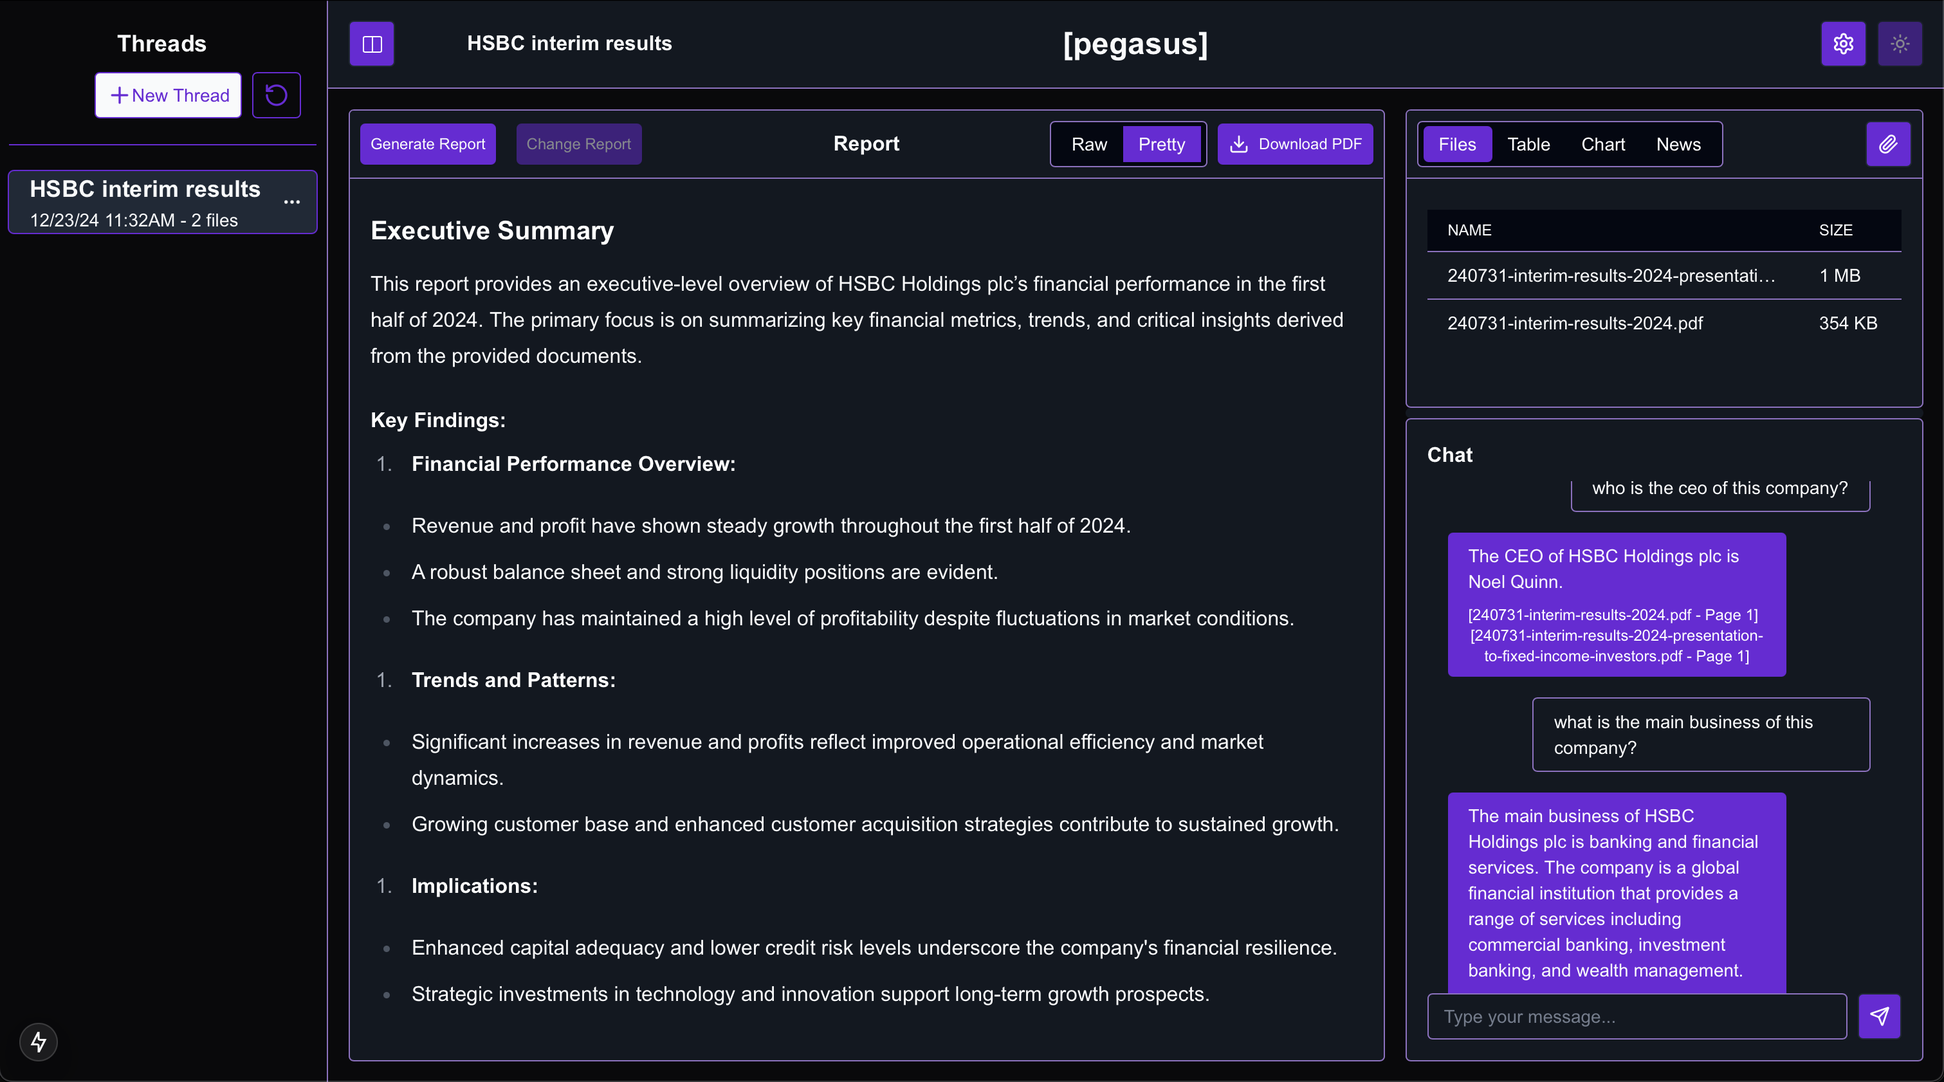
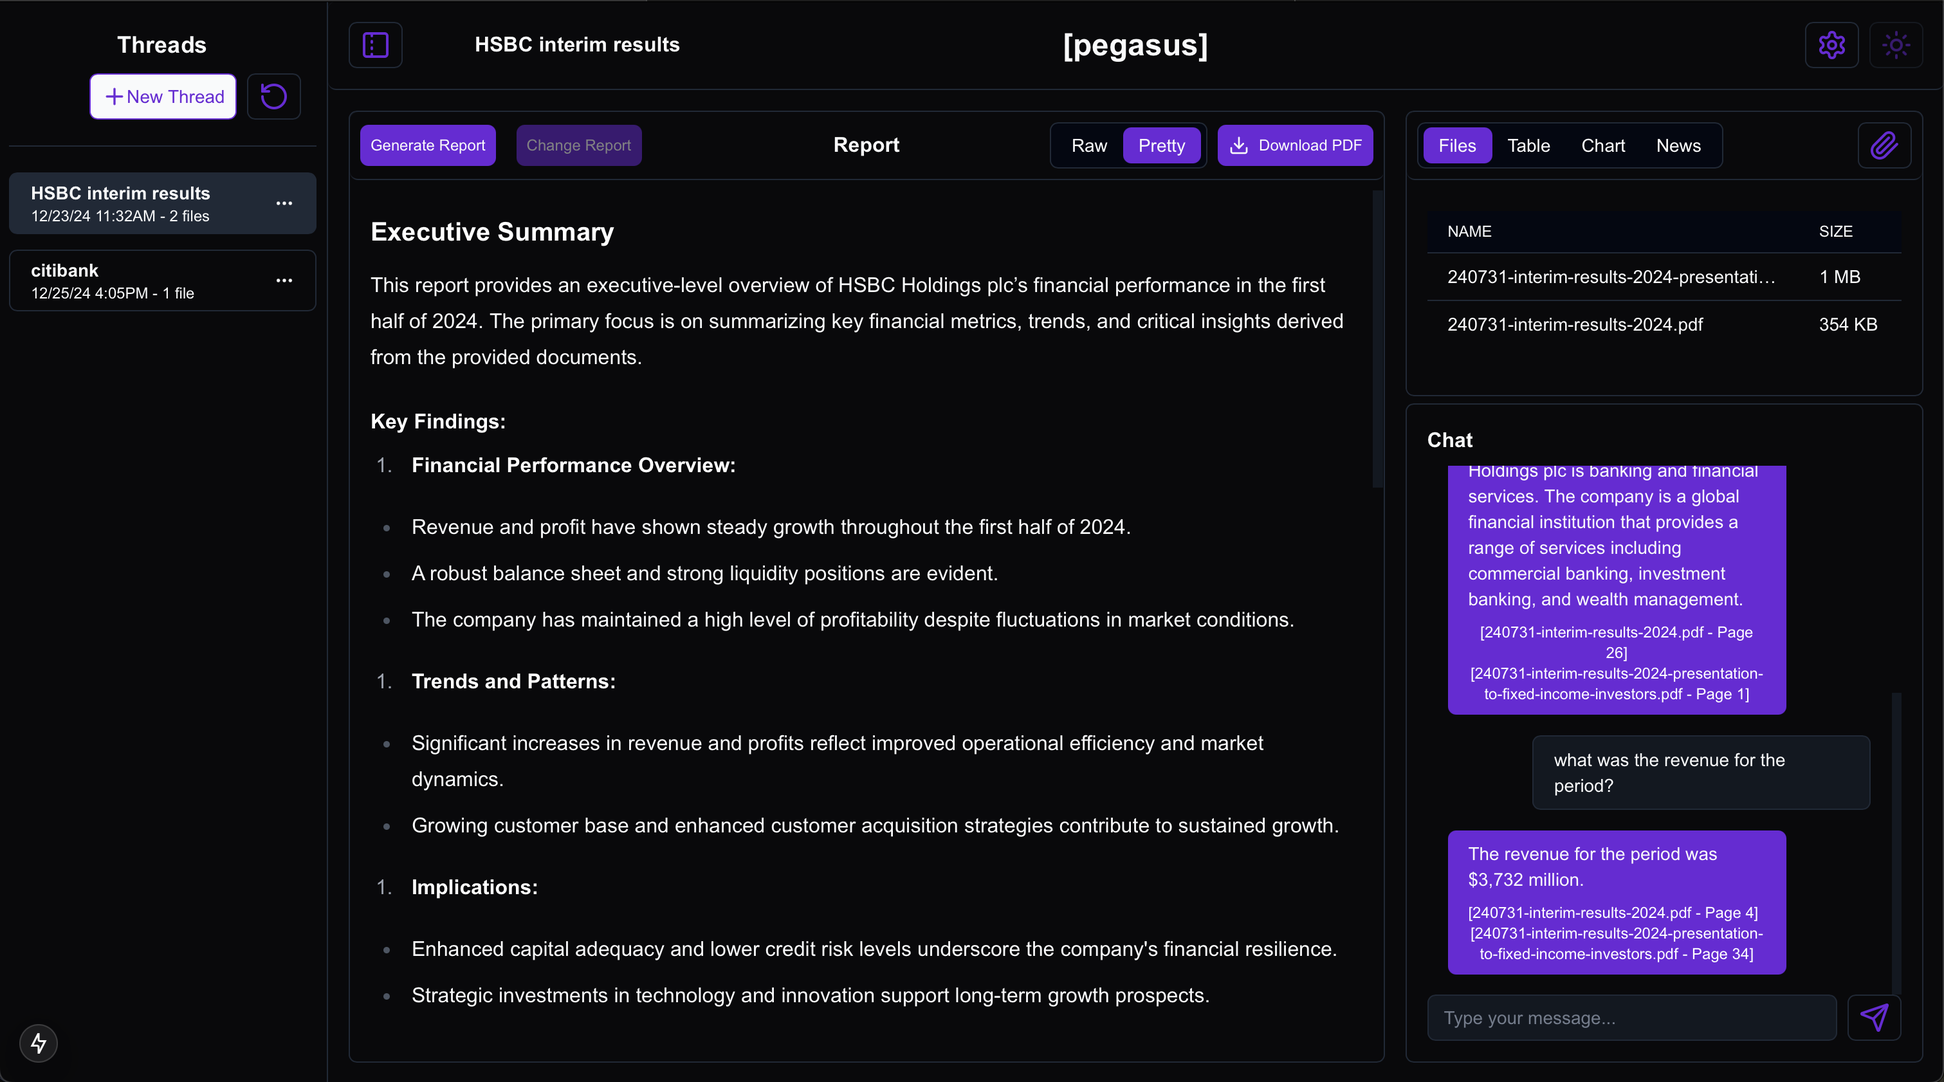
refactor; updated ui

diff --git a/src/components/pegasus-app.tsx b/src/components/pegasus-app.tsx
@@ -1,7 +1,7 @@
 // src/components/PegasusApp.jsx
 
 'use client';
-
+import { Resizable } from "re-resizable";
 import { useState, useRef, useEffect, useCallback } from 'react';
 import { 
   Settings, 
@@ -44,12 +44,12 @@ import { Switch } from "@/components/ui/switch";
 import { Progress } from "@/components/ui/progress";
 import { Tabs, TabsContent, TabsList, TabsTrigger } from "@/components/ui/tabs";
 import { useDropzone } from 'react-dropzone';
-import { Artifact } from "@/components/ui/artifact";
+import { Artifact } from "@/components/artifact";
 import Image from 'next/image';
 import { DocumentGrid } from '@/components/document-grid';
 import { DropdownMenu, DropdownMenuContent, DropdownMenuTrigger, DropdownMenuCheckboxItem } from '@/components/ui/dropdown-menu';
 import { SidebarProvider, SidebarInset, SidebarTrigger } from "@/components/ui/sidebar";
-import { AppSidebar } from "@/components/ui/appSidebar";
+import { AppSidebar } from "@/components/appSidebar";
 
 
 const API_BASE_URL = 'http://localhost:5050';
@@ -129,7 +129,6 @@ export function PegasusApp() {
   const chatContainerRef = useRef<HTMLDivElement>(null);
   const fileInputRef = useRef<HTMLInputElement>(null);
   const chatResizeBarRef = useRef<HTMLDivElement>(null);
-  const [chatHeight, setChatHeight] = useState(500);
 
   // State variables for editing thread title
   const [editDialogOpen, setEditDialogOpen] = useState<boolean>(false);
@@ -315,7 +314,7 @@ export function PegasusApp() {
           message.role === 'system' 
             ? 'bg-red-500 text-[hsl(var(--foreground))]' 
             : message.role === 'user' 
-              ? 'bg-[hsl(var(--muted))] text-[hsl(var(--foreground))] border border-[hsl(var(--ring))]' 
+              ? 'bg-[hsl(var(--muted))] text-[hsl(var(--foreground))] border border-[hsl(var(--border))]' 
               : 'bg-[hsl(var(--primary))] text-[hsl(var(--foreground))]'
         } rounded px-4 py-2`}>
           <p className="text-sm">{message.content}</p>
@@ -337,26 +336,6 @@ export function PegasusApp() {
     );
   };
 
-  const handleChatMouseDown = (e: React.MouseEvent) => {
-    e.preventDefault();
-    document.addEventListener('mousemove', handleChatMouseMove);
-    document.addEventListener('mouseup', handleChatMouseUp);
-  };
-
-  const handleChatMouseMove = (e: MouseEvent) => {
-    if (chatResizeBarRef.current) {
-      const containerRect = chatResizeBarRef.current.parentElement?.getBoundingClientRect();
-      if (containerRect) {
-        const newHeight = containerRect.bottom - e.clientY;
-        setChatHeight(newHeight);
-      }
-    }
-  };
-
-  const handleChatMouseUp = () => {
-    document.removeEventListener('mousemove', handleChatMouseMove);
-    document.removeEventListener('mouseup', handleChatMouseUp);
-  };
 
   async function loadHistoryAndUpdate() { 
     try {
@@ -1024,13 +1003,13 @@ export function PegasusApp() {
             {/* Main content */}
             <div className="flex-1 flex flex-col">
               {/* Header */}
-              <header className="bg-[hsl(var(--muted))] border-b border-[hsl(var(--ring))] p-4 flex justify-between items-center">
+              <header className="bg-[hsl(var(--background))] border-b border-[hsl(var(--border))] rounded p-4 flex justify-between items-center">
                 <div className="flex items-center">
                   {/* Sidebar toggle button can be uncommented if needed */}
                   <SidebarTrigger 
                     variant="outline"
                     size="icon" 
-                    className="bg-[hsl(var(--primary))] hover:bg-[hsl(var(--primary-hover))] text-[hsl(var(--primary-foreground))] h-9 w-9 rounded" />
+                    className="w-auto bg-[hsl(var(--background))] hover:bg-[hsl(var(--muted))] border border-[hsl(var(--border))] text-[hsl(var(--primary))] p-2 rounded" />
                   {/* <Button 
                     variant="outline" 
                     size="icon" 
@@ -1053,11 +1032,11 @@ export function PegasusApp() {
                 </div>
                 <div className="w-10"></div> {/* Spacer */}
                 <div className="flex items-center space-x-2">
-                  <Button variant="outline" size="icon" className="bg-[hsl(var(--primary))] hover:bg-[hsl(var(--primary-hover))] text-[hsl(var(--primary-foreground))] p-2 rounded" onClick={() => setIsSettingsOpen(true)}>
+                  <Button variant="outline" size="icon" className="w-auto bg-[hsl(var(--background))] hover:bg-[hsl(var(--muted))] border border-[hsl(var(--border))] text-[hsl(var(--primary))] p-2 rounded" onClick={() => setIsSettingsOpen(true)}>
                     <Settings />
                   </Button>
-                  <Button variant="outline" size="icon" className="bg-[hsl(var(--primary))] hover:bg-[hsl(var(--primary-hover))] text-[hsl(var(--primary-foreground))] p-2 rounded" onClick={handleToggle} disabled>
-                    {isDarkMode ? <Sun className="h-4 w-4" /> : <Moon className="h-4 w-4" />}
+                  <Button variant="outline" size="icon" className="w-auto bg-[hsl(var(--background))] hover:bg-[hsl(var(--muted))] border border-[hsl(var(--border))] text-[hsl(var(--primary))] p-2 rounded" onClick={handleToggle} disabled>
+                    {isDarkMode ? <Sun /> : <Moon />}
                   </Button>
                 </div>
               </header>
@@ -1085,14 +1064,32 @@ export function PegasusApp() {
                   )}
                 </div>
 
-                {/* Right sidebar */}
+                {/* Right side */}
+
                 <div className="w-1/3 h-full flex flex-col">
+                  <Resizable
+                    defaultSize={{ width: "100%", height: "30%" }}
+
+                  enable={{
+                    right: false,
+                    top: false,
+                    bottom: true,
+                    left: false,
+                    topRight: false,
+                    bottomRight: false,
+                    bottomLeft: false,
+                    topLeft: false,
+                  }}
+                  className="overflow-hidden rounded"
+                  style={{ display: "flex", flexDirection: "row", }}
+
+                  >
                   {/* Tabs section */}
-                  <div style={{ height: `calc(100% - ${chatHeight}px - 8px)` }} className="bg-[hsl(var(--muted))] border border-[hsl(var(--ring))] rounded overflow-hidden">
+                  <div className="bg-[hsl(var(--background))] border border-[hsl(var(--border))] rounded overflow-hidden w-full">
                     {activeThread ? (
                       <Tabs defaultValue="files" className="h-full flex flex-col">
-                        <div className="bg-[hsl(var(--muted))] border-b border-[hsl(var(--ring))] p-2 flex justify-between items-center">
-                          <TabsList className="bg-[hsl(var(--popover))]  border border-[hsl(var(--ring))] rounded">
+                        <div className="bg-[hsl(var(--background))] border-b border-[hsl(var(--border))] p-2 flex justify-between items-center rounded">
+                          <TabsList className="bg-[hsl(var(--popover))]  border border-[hsl(var(--border))] rounded">
                             <TabsTrigger 
                               value="files" 
                               className="data-[state=active]:bg-[hsl(var(--primary))] hover:bg-[hsl(var(--primary-hover))] text-[hsl(var(--primary-foreground))] rounded"
@@ -1129,9 +1126,9 @@ export function PegasusApp() {
                               fileInputRef.current?.click();
                               //addNotification('Select a file to upload', 'info');
                             }}
-                            className="bg-[hsl(var(--primary))] hover:bg-[hsl(var(--primary-hover))] text-[hsl(var(--primary-foreground))] p-2 rounded"
+                            className="w-auto bg-[hsl(var(--background))] hover:bg-[hsl(var(--muted))] border border-[hsl(var(--border))] text-[hsl(var(--primary))] p-2 rounded"
                           >
-                            <Paperclip className="h-4 w-4" />
+                            <Paperclip />
                           </Button>
                           <input
                             type="file"
@@ -1169,17 +1166,11 @@ export function PegasusApp() {
                       </div>
                     )}
                   </div>
-
-                  {/* Chat resize bar */}
-                  <div
-                    ref={chatResizeBarRef}
-                    className="h-2 bg-[hsl(var(--muted))] rounded  transition-colors duration-200"
-                    onMouseDown={handleChatMouseDown}
-                    //onClick={() => addNotification('Adjusting chat size', 'info')}
-                  ></div>
-
+                  
+                  </Resizable>
                   {/* Chat */}
-                  <div style={{ height: `${chatHeight}px` }} className="bg-[hsl(var(--muted))] border border-[hsl(var(--ring))] rounded p-4 flex flex-col overflow-hidden">
+                  <div className="h-2"></div>
+                  <div className="h-full bg-[hsl(var(--background))] border border-[hsl(var(--border))] rounded p-4 flex flex-col overflow-hidden">
                     {activeThread ? (
                       <>
                         <div className="flex justify-between items-center mb-2">
@@ -1202,10 +1193,10 @@ export function PegasusApp() {
                                 handleSendMessage(inputMessage);
                               }
                             }}
-                            className="bg-[hsl(var(--muted))] text-[hsl(var(--foreground))] placeholder-[hsl(var(--muted-foreground))] border border-[hsl(var(--ring))] rounded"
+                            className="bg-[hsl(var(--muted))] text-[hsl(var(--foreground))] placeholder-[hsl(var(--muted-foreground))] border border-[hsl(var(--border))] rounded"
                           />
-                          <Button size="icon" variant="outline" onClick={() => handleSendMessage(inputMessage)} className="bg-[hsl(var(--primary))] hover:bg-[hsl(var(--primary-hover))] text-[hsl(var(--primary-foreground))] p-2 rounded">
-                            <Send className="h-4 w-4" />
+                          <Button size="icon" variant="outline" onClick={() => handleSendMessage(inputMessage)} className="w-auto bg-[hsl(var(--background))] hover:bg-[hsl(var(--muted))] border border-[hsl(var(--border))] text-[hsl(var(--primary))] p-2 rounded">
+                            <Send/>
                           </Button>
                         </div>
                       </>
@@ -1220,10 +1211,15 @@ export function PegasusApp() {
                     )}
                   </div>
                 </div>
+                
               </div>
+              
             </div>
+            
           </div>
+          
         </SidebarInset>
+        
       </SidebarProvider>
   );
 }

diff --git a/src/components/appSidebar.tsx b/src/components/appSidebar.tsx
@@ -51,7 +51,7 @@ export function AppSidebar({
   };
 
   return (
-    <Sidebar className="h-screen bg-[var(--background)] border-r border-[hsl(var(--ring))] text-[var(--text)] flex flex-col">
+    <Sidebar className="h-screen bg-[var(--background)] border-r border-[hsl(var(--border))] text-[hsl(var(--foreground))] flex flex-col">
       {/* Sidebar Header */}
       <SidebarHeader className="p-5 bg-[var(--background)]">
         <h2 className="text-lg font-bold flex justify-center">Threads</h2>
@@ -71,14 +71,14 @@ export function AppSidebar({
             variant="outline"
             size="icon"
             title="Refresh Threads"
-            className="w-auto bg-[hsl(var(--sidebar-background))] hover:bg-[hsl(var(--sidebar-ring))] text-[hsl(var(--sidebar-primary))] border border-[hsl(var(--sidebar-border))] p-2 rounded"
+            className="w-auto bg-[hsl(var(--background))] hover:bg-[hsl(var(--muted))] border border-[hsl(var(--border))] text-[hsl(var(--primary))] p-2 rounded"
             aria-label="Refresh Threads"
           >
-            <RotateCcw className="h-5 w-5" />
+            <RotateCcw />
           </Button>
         </div>
       </SidebarHeader>
-      <SidebarSeparator />
+      <SidebarSeparator  className="border-b border-[hsl(var(--border))] rounded"/>
       {/* Sidebar Content */}
       <SidebarContent className="flex-1 overflow-y-auto bg-[hsl(var(--background))] [&::-webkit-scrollbar]:w-2 [&::-webkit-scrollbar-track]:bg-transparent [&::-webkit-scrollbar-thumb]:bg-[hsl(var(--muted))] [&:hover]:scrollbar-thumb-[hsl(var(--muted-foreground))]">
         <SidebarMenu className="mt-4 px-2">
@@ -89,8 +89,8 @@ export function AppSidebar({
                 asChild
                 isActive={activeThread === session.id}
                 onClick={() => setActiveThread(session.id)}
-                className="bg-[hsl(var(--sidebar-background))] hover:bg-[hsl(var(--primary-hover))] text-[hsl(var(--foreground))] p-1 my-1 rounded"
-                variant="outline"
+                className="bg-[hsl(var(--sidebar-background))] hover:bg-[hsl(var(--primary-hover))] text-[hsl(var(--foreground))] border border-[hsl(var(--border))] p-1 my-1 rounded"
+                variant="default"
                 size="lg"
               >
                 <div className="flex items-center justify-between p-4 cursor-pointer">
@@ -99,8 +99,8 @@ export function AppSidebar({
                     <span   
                     className="
                       font-semibold 
-                      text-lg 
-                      text-[var(--text)] 
+                      text-sm
+                      text-[hsl(var(--foreground))] 
                       max-w-full 
                       whitespace-nowrap 
                       overflow-hidden 
@@ -110,7 +110,7 @@ export function AppSidebar({
                       title={session.title || "Untitled"}>
                     {session.title || "Untitled"}
                     </span>
-                    <div className="text-sm text-[var(--text)] ">
+                    <div className="text-xs text-[hsl(var(--foreground))] ">
                       {format(new Date(session.created_at), "M/d/yy h:mma")} -{" "}
                       {session.files.length} {session.files.length === 1 ? "file" : "files"}
                     </div>
@@ -121,15 +121,15 @@ export function AppSidebar({
                     <DropdownMenu>
                       <DropdownMenuTrigger asChild>
                         <button className="ml-2 hover:bg-[var(--background)] rounded" aria-label="Actions">
-                          <MoreHorizontal className="h-4 w-4 text-[var(--text)]" />
+                          <MoreHorizontal className="h-4 w-4 text-[hsl(var(--foreground))]" />
                         </button>
                       </DropdownMenuTrigger>
-                      <DropdownMenuContent className="w-[--radix-popper-anchor-width] bg-[hsl(var(--muted))] border border-[hsl(var(--ring))]">
+                      <DropdownMenuContent className="w-[--radix-popper-anchor-width] bg-[hsl(var(--muted))] border border-[hsl(var(--border))]">
                         <DropdownMenuItem
                           onSelect={() => onEditThread(session.id, session.title || "Untitled")} 
                           className="flex items-center cursor-pointer"
                         >
-                          <Edit className="mr-2 h-4 w-4 text-[var(--text)]" />
+                          <Edit className="mr-2 h-4 w-4 text-[hsl(var(--foreground))]" />
                           Edit title
                         </DropdownMenuItem>
                         <DropdownMenuItem

diff --git a/src/components/artifact.tsx b/src/components/artifact.tsx
@@ -140,8 +140,8 @@ export function Artifact({ content, title, sessionId, onActiveThreadChange, onRe
   };
 
   return (
-    <div className="bg-[hsl(var(--muted))] rounded overflow-hidden border border-[hsl(var(--ring))] flex flex-col h-full">
-      <div className="bg-[hsl(var(--muted))] border-b border-[hsl(var(--ring))] p-2 flex justify-between items-center relative">
+    <div className="bg-[hsl(var(--background))] rounded overflow-hidden border border-[hsl(var(--border))] flex flex-col h-full focus:ring-0 ">
+      <div className="bg-[hsl(var(--background))] border-b border-[hsl(var(--border))] rounded p-2 flex justify-between items-center relative">
         <div className="flex items-center space-x-4">
           {sessionId && (
             <Button
@@ -171,16 +171,16 @@ export function Artifact({ content, title, sessionId, onActiveThreadChange, onRe
         </div>
         <div className="flex items-center space-x-2">
           <Tabs value={activeTab} onValueChange={(value) => setActiveTab(value as 'raw' | 'pretty')}>
-            <TabsList className="bg-[hsl(var(--popover))]  border border-[hsl(var(--ring))] rounded">
+            <TabsList className="bg-[hsl(var(--popover))]  border border-[hsl(var(--border))] rounded">
               <TabsTrigger 
                 value="raw" 
-                className="data-[state=active]:bg-[hsl(var(--primary))] data-[state=active]:text-[hsl(var(--foreground))]  text-[hsl(var(--foreground))]"
+                className="data-[state=active]:bg-[hsl(var(--primary))] data-[state=active]:text-[hsl(var(--foreground))]  text-[hsl(var(--foreground))] hover:bg-[hsl(var(--primary-hover))]  rounded"
               >
                 Raw
               </TabsTrigger>
               <TabsTrigger 
                 value="pretty" 
-                className="data-[state=active]:bg-[hsl(var(--primary))]  data-[state=active]:text-[hsl(var(--foreground))] text-[hsl(var(--foreground))]"
+                className="data-[state=active]:bg-[hsl(var(--primary))]  data-[state=active]:text-[hsl(var(--foreground))] text-[hsl(var(--foreground))] hover:bg-[hsl(var(--primary-hover))] rounded"
               >
                 Pretty
               </TabsTrigger>

diff --git a/src/components/document-grid.tsx b/src/components/document-grid.tsx
@@ -35,10 +35,10 @@ export function DocumentGrid({ files, onFileClick }: DocumentGridProps) {
     return `${Math.round(bytes / Math.pow(1024, i))} ${sizes[i]}`;
   };
 
-  return (
+  return (  
     <div className="w-full">
       <table className="w-full">
-        <thead className="bg-[hsl(var(--popover))]  border-b border-[hsl(var(--ring))]">
+        <thead className="bg-[hsl(var(--popover))]  border-b border-[hsl(var(--border))]">
           <tr>
             <th className="px-4 py-2 text-left text-xs font-medium text-[hsl(var(--foreground))] uppercase max-w-[200px]">
               Name
@@ -48,11 +48,11 @@ export function DocumentGrid({ files, onFileClick }: DocumentGridProps) {
             </th>
           </tr>
         </thead>
-        <tbody className="bg-[hsl(var(--muted))]">
+        <tbody className="bg-[hsl(var(--background))]">
           {Array.isArray(files) && files.map((file) => (
             <tr
               key={`${file.session_id}-${file.name}`}
-              className="border-t border-[hsl(var(--ring))] cursor-pointer hover:bg-[hsl(var(--popover))] transition-colors"
+              className="border-t border-[hsl(var(--border))] cursor-pointer hover:bg-[hsl(var(--primary-hover))] transition-colors"
               onClick={() => handleFileClick(file)}
             >
               <td className="px-4 py-2 text-sm text-[hsl(var(--foreground))] truncate max-w-[200px]">

diff --git a/src/components/ui/sidebar.tsx b/src/components/ui/sidebar.tsx
@@ -18,6 +18,7 @@ import {
 } from "@/components/ui/tooltip"
 import { ViewVerticalIcon } from "@radix-ui/react-icons"
 import * as VisuallyHidden from "@radix-ui/react-visually-hidden";
+import { PanelLeftDashed } from "lucide-react"
 
 
 const SIDEBAR_COOKIE_NAME = "sidebar:state"
@@ -277,14 +278,16 @@ const SidebarTrigger = React.forwardRef<
       data-sidebar="trigger"
       variant="ghost"
       size="icon"
-      className={cn("h-7 w-7", className)}
+      className={className}
       onClick={(event) => {
         onClick?.(event)
         toggleSidebar()
       }}
       {...props}
     >
-      <ViewVerticalIcon />
+      <strong>
+      <PanelLeftDashed />
+      </strong>
       <span className="sr-only">Toggle Sidebar</span>
     </Button>
   )

diff --git a/src/app/globals.css b/src/app/globals.css
@@ -34,7 +34,8 @@ body {
     --destructive-foreground: 210 20% 98%;
     --border: 220 13% 91%;
     --input: 220 13% 91%;
-    --ring: 263.4 70% 50.4%; /* Violet ring color */
+    --ring: 263.4 70% 50.4%; 
+    --radius: 0.4rem;
     
     /* Sidebar specific colors */
     --sidebar-background: 240 100% 98%; /* Match main background */
@@ -67,7 +68,8 @@ body {
     --destructive-foreground: 210 20% 98%;
     --border: 215 27.9% 16.9%;
     --input: 215 27.9% 16.9%;
-    --ring: 263.4 40% 60%; /* Violet ring */
+    --ring: 263.4 40% 60%; 
+    --radius: 0.4rem;
 
     /* Sidebar specific colors */
     --sidebar-background: 240 10% 3.9%;

diff --git a/tailwind.config.ts b/tailwind.config.ts
@@ -62,6 +62,7 @@ const config: Config = {
   			}
   		},
   		borderRadius: {
+			DEFAULT: 'var(--radius)',
   			lg: 'var(--radius)',
   			md: 'calc(var(--radius) - 2px)',
   			sm: 'calc(var(--radius) - 4px)'
